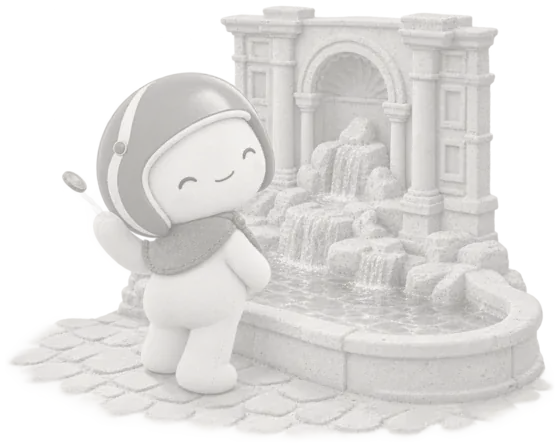
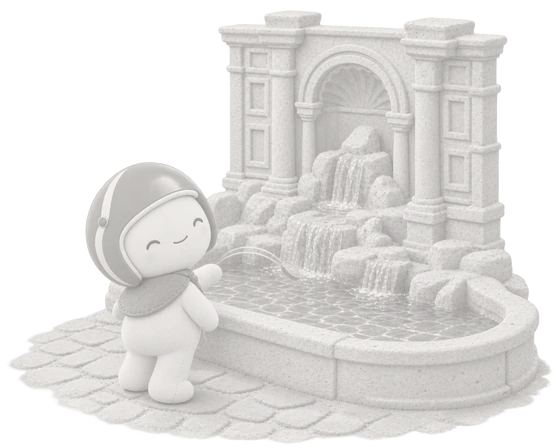
Document check leads its section, a Vespi scene on /prices, Trevi redrawn
- Owner, on the home section: «кнопку «Проверь документы» … должна быть
  главной, и эти блоки должны быть снизу… блок должен быть большой».
  - The invitation is first and full width: a large title, the main
    button and the document-check cartouche.
  - The facts and the comparison follow.
  - On a phone the cartouche stays in the corner.
- On /prices: «довольно пустая… одна большая иллюстрация с Веспи… на
  фоне». The heading stands on a wide Higgsfield scene of Vespi checking
  a sealed certificate with a magnifying glass at a desk.
- On the road: «у фонтана Треви… пропорции не такие… кидает её
  странно». Vespi is redrawn in his true proportions and tosses the coin
  over his shoulder into the basin. Same 560×448 frame, grey copy
  rebuilt.
- design-vespi-handmade-review: the home intro picture is lazy. The
  review called decode() on it before its load had started, which threw
  EncodingError on CI each time the page above it grew. It now waits for
  the load, then decodes as before.

Claude-Session: https://claude.ai/code/session_01EJf3uoJW8TN46ucPCkbbdr

diff --git a/src/components/home/DocumentCheckFeature.tsx b/src/components/home/DocumentCheckFeature.tsx
@@ -43,39 +43,53 @@ const COMPARE = [
   { row: "Сколько стоит", agency: "Отдельный договор с агентством", agencyPrice: `Сопровождение — обычно ${fmtPrice(AGENCY_SUPPORT.from)}–${priceLabel(AGENCY_SUPPORT.to)}`, us: `Входит в ${priceLabel(PRICE_MAIN)} за весь путь, первая проверка бесплатно` },
 ] as const;
 
+/* Owner, 20 Nov, on the home section: «саму кнопку «Проверь документы», она
+   должна быть главной, и эти блоки должны быть снизу… блок «Проверь
+   документы» должен быть вот такой большой». The invitation comes first, full
+   width, with the cartouche of the check and the main button; the facts and
+   the comparison follow. On /prices («страница с ценами довольно пустая…
+   одна большая иллюстрация с Веспи, который что-то делает по тематике… на
+   фоне») the heading stands on a wide scene: Vespi checking documents at a
+   desk (design/illustrations/scenes-2026-11-20.json). */
+const SCENE = {
+  src: "/illustrations/scenes/prices-check-1600.webp",
+  srcSet: "/illustrations/scenes/prices-check-960.webp 960w, /illustrations/scenes/prices-check-1600.webp 1600w, /illustrations/scenes/prices-check-2400.webp 2400w",
+};
+
 export function DocumentCheckFeature({ compact = false }: { compact?: boolean }) {
+  const head = <div className={styles.head}>
+    <h2 id={compact ? "document-check-promo-title" : "document-check-feature-title"} className={styles.title}>
+      Проверка документов.<br /><span>Пункт за пунктом — в любое время.</span>
+    </h2>
+    <p className={styles.lead}>
+      Загрузи справку, перевод, выписку или аттестат. ИИ сверит их с требованиями твоего вуза, DSU и визы
+      на твой учебный год и скажет, что исправить, — пока агентство ещё не открылось.
+    </p>
+  </div>;
   return <section className={`${styles.section} ${compact ? styles.compact : ""}`} data-section={compact ? undefined : "document-check-feature"} data-document-check-feature aria-labelledby={compact ? "document-check-promo-title" : "document-check-feature-title"}>
-    <div className={styles.head}>
-      <h2 id={compact ? "document-check-promo-title" : "document-check-feature-title"} className={styles.title}>
-        Проверка документов.<br /><span>Пункт за пунктом — в любое время.</span>
-      </h2>
-      <p className={styles.lead}>
-        Загрузи справку, перевод, выписку или аттестат. ИИ сверит их с требованиями твоего вуза, DSU и визы
-        на твой учебный год и скажет, что исправить, — пока агентство ещё не открылось.
-      </p>
-    </div>
+    {compact ? <div className={styles.scene} data-document-check-scene>
+      <img className={styles.sceneArt} src={SCENE.src} srcSet={SCENE.srcSet} sizes="(max-width: 700px) 100vw, 1160px" width={2400} height={1357} alt="" loading="lazy" decoding="async" draggable={false} />
+      {head}
+    </div> : head}
     <Bento label="Чем проверка документов отличается от агентства" className={styles.bento}>
+      {!compact && <BentoCell span={{ md: 6, lg: 12 }} tone="action" className={styles.cta} data-document-check-cta>
+        <div className={styles.ctaCopy}>
+          <p className={styles.ctaTitle}>Проверь один документ бесплатно</p>
+          <p className={styles.ctaText}>Без регистрации. Проверка помогает не потерять время на ошибках; решение о приёме принимает вуз.</p>
+          <AppleButtonLink href="/plan#document-check" className={styles.ctaButton}>Проверить документ</AppleButtonLink>
+        </div>
+        <img className={styles.ctaArt} src={CTA_ART.src} srcSet={CTA_ART.srcSet} sizes="(max-width: 767px) 64px, 260px" width={CTA_ART.width} height={CTA_ART.height} alt="" loading="lazy" decoding="async" draggable={false} data-document-check-art />
+      </BentoCell>}
       {FACTS.map(fact => <BentoCell key={fact.value} span={{ md: 3, lg: 3 }} className={styles.fact} data-bento-row data-document-check-fact>
         <BentoStat value={fact.value} label={fact.label} note={fact.note} />
       </BentoCell>)}
-      <BentoCell span={{ md: 6, lg: compact ? 12 : 8 }} data-document-check-compare>
+      <BentoCell span={{ md: 6, lg: 12 }} data-document-check-compare>
         <table className={styles.compare}>
           <caption className={bento.heading}>Проверка у агентства и здесь</caption>
           <thead><tr><th scope="col"><span className={styles.srOnly}>Что сравниваем</span></th><th scope="col">Агентство</th><th scope="col">IITALY</th></tr></thead>
           <tbody>{COMPARE.map(item => <tr key={item.row}><th scope="row">{item.row}</th><td>{item.agency}{"agencyPrice" in item && <span className={styles.agencyPrice} data-document-check-agency-price>{item.agencyPrice}</span>}</td><td>{item.us}</td></tr>)}</tbody>
         </table>
       </BentoCell>
-      {!compact && <BentoCell span={{ md: 6, lg: 4 }} tone="action" className={styles.cta} data-document-check-cta>
-        <div className={bento.body}>
-          <p className={bento.heading}>Проверь один документ бесплатно</p>
-          <p className={bento.text}>Без регистрации. Проверка помогает не потерять время на ошибках; решение о приёме принимает вуз.</p>
-        </div>
-        {/* Owner, 19 Nov: «проверка документов это киллер фича, её нужно
-            активнее рекламировать» — the cell gets the document-check cartouche
-            instead of an empty dotted field. */}
-        <img className={styles.ctaArt} src={CTA_ART.src} srcSet={CTA_ART.srcSet} sizes="(max-width: 640px) 120px, 160px" width={CTA_ART.width} height={CTA_ART.height} alt="" loading="lazy" decoding="async" draggable={false} data-document-check-art />
-        <div className={bento.actions}><AppleButtonLink href="/plan#document-check">Проверить документ</AppleButtonLink></div>
-      </BentoCell>}
     </Bento>
   </section>;
 }

diff --git a/src/components/home/document-check-feature.module.css b/src/components/home/document-check-feature.module.css
@@ -31,16 +31,36 @@
 }
 /* Цена агентства под строкой договора: тот же тихий цвет, цифры читаются. */
 .agencyPrice { display: block; margin-top: 2px; color: #57514B; font-weight: 500; font-variant-numeric: tabular-nums; }
-/* The cartouche of the check fills the action cell (owner, 19 Nov). On a
-   phone the cell stands alone in its row, so a picture between the text and
-   the button would lengthen the page by ~140px and push everything below,
-   down to Vespi's introduction, further from the first screen; there the
-   cartouche sits small in the cell's top corner instead. */
-.cta { position:relative; }
-.ctaArt { display:block; width:160px; height:auto; margin:8px auto 4px; }
+/* The invitation first and large (owner, 20 Nov): the main button, the
+   cartouche of the check beside it. On a phone the cartouche stays small in
+   the corner, so the page keeps its length (the lazy pictures below it, down
+   to Vespi's introduction, still load with the page). */
+.bento .cta { position:relative; display:grid; grid-template-columns:minmax(0, 1fr) auto; align-items:center; gap:24px 40px; padding:clamp(28px, 4vw, 48px); }
+.ctaCopy { display:grid; justify-items:start; gap:12px; min-width:0; }
+.ctaTitle { margin:0; color:#141413; font:600 clamp(26px, 3vw, 40px) / 1.08 var(--font-apple-display); letter-spacing:-.03em; text-wrap:balance; }
+.ctaText { margin:0; max-width:52ch; color:#56524C; font-size:16px; line-height:1.55; }
+.cta .ctaButton { margin-top:12px; min-height:52px; padding-inline:28px; font-size:17px; }
+.ctaArt { display:block; width:clamp(180px, 20vw, 260px); height:auto; }
 @media (max-width:767px) {
-  .ctaArt { position:absolute; top:14px; right:14px; width:64px; margin:0; }
-  .cta p:first-of-type { padding-right:72px; }
+  .bento .cta { display:block; padding:20px 18px 22px; }
+  .ctaArt { position:absolute; top:14px; right:14px; width:64px; }
+  .ctaTitle { padding-right:72px; font-size:24px; }
+  .ctaText { font-size:15px; }
+  .cta .ctaButton { margin-top:6px; }
+}
+
+/* /prices: the heading on a wide scene of Vespi checking documents. The
+   picture fills the card; a cream wash from the left keeps the heading on a
+   calm ground. On a phone the scene sits above the heading as a picture. */
+.scene { position:relative; display:grid; align-items:center; min-height:clamp(340px, 34vw, 460px); margin-bottom:28px; padding:clamp(28px, 4vw, 56px); overflow:hidden; border-radius:28px; background:#EFE6D8; isolation:isolate; }
+.sceneArt { position:absolute; inset:0; z-index:-2; width:100%; height:100%; object-fit:cover; object-position:right center; }
+.scene::before { content:""; position:absolute; inset:0; z-index:-1; background:linear-gradient(90deg, rgba(250,248,245,.94) 0%, rgba(250,248,245,.82) 34%, rgba(250,248,245,0) 62%); }
+.scene .head { max-width:min(540px, 56%); margin:0; }
+@media (max-width:700px) {
+  .scene { display:block; min-height:0; padding:0; overflow:visible; border-radius:0; background:none; }
+  .sceneArt { position:static; z-index:auto; aspect-ratio:4 / 3; height:auto; margin-bottom:20px; border-radius:24px; object-position:82% center; }
+  .scene::before { display:none; }
+  .scene .head { max-width:none; }
 }
 .srOnly { position: absolute; width: 1px; height: 1px; overflow: hidden; clip-path: inset(50%); white-space: nowrap; }
 

diff --git a/DESIGN.md b/DESIGN.md
@@ -2320,3 +2320,27 @@ questionnaire were the last ones beside the Galleria cartouches.
     button leads to /plan#document-check.
   - On the home page, the action cell «Проверь один документ бесплатно»
     shows the same cartouche instead of an empty dotted field.
+
+## The document check leads its section; a scene on /prices; Trevi redrawn · 20 November 2026
+
+- **Home, the document check section.** «Саму кнопку «Проверь документы»,
+  она должна быть главной, и эти блоки должны быть снизу… блок «Проверь
+  документы» должен быть вот такой большой».
+  - The invitation now comes first, full width: a 26–40 px title, the text,
+    a large main button and the document-check cartouche at 180–260 px
+    beside them. The four facts and the comparison with an agency follow.
+  - On a phone the cartouche stays small in the corner, so the page keeps
+    nearly its length.
+- **/prices.** «Она довольно пустая… одна большая иллюстрация с Веспи,
+  который что-то делает именно по тематике… на фоне».
+  - The heading of the document check stands on a wide scene: Vespi at a
+    walnut desk in a Renaissance study checks a sealed certificate through
+    a magnifying glass.
+  - A cream wash from the left keeps the heading readable. On a phone the
+    scene is a rounded picture above the heading.
+  - Manifest: design/illustrations/scenes-2026-11-20.json.
+- **Cabinet and guide roads, Trevi.** «Пропорции какие-то не такие. Он
+  кидает монетку, но кидает её странно». Vespi is redrawn in his true
+  proportions, about a third of the fountain's height. He stands with his
+  back to the water and tosses the coin over his shoulder; its arc ends in
+  the basin. Same frame size, grey copy for the closed part of the road.
